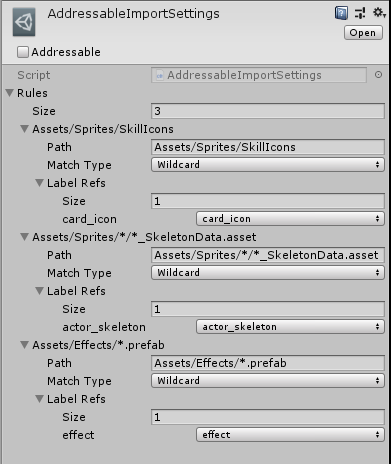
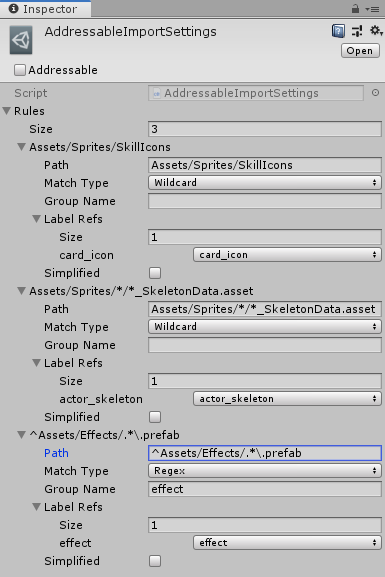
Conforms to upm package.

Changed region(s): [[0.0, 0.0, 1.0, 1.0], [0.374, 0.9655, 0.4364, 0.9957]]

diff --git a/README.md b/README.md
@@ -3,33 +3,26 @@ A simple rule based addressable asset importer.
 
 The importer marks assets as addressable, by applying to files having a path matching the rule pattern.
 
-## Usage
+## Install package
 
-You should create a single AddressableImportSettings file located at `Assets/AddressableAssetsData/AddressableImportSettings.asset`. To create it, go to `Assets/AddressableAssetsData` folder, right click in your project window and choose `Create > Addressable Assets > Import Settings`.
+### Install as a git package
 
-If no settings file exists, an empty one will be created when importing any new asset.
+This is the recommended way to track update. Open Packages/manifest.json with your favorite text editor. Add the following line to the dependencies block.
 
-Once the settings file selected, you can edit rules in the inspector window. Then click `File > Save Project` to apply the changes.
+    {
+        "dependencies": {
+            "com.littlebigfun.addressable-importer": "https://github.com/favoyang/unity-addressable-importer.git"
+        }
+    }
 
-![AddressableImportSettings Insepctor](./Documentation~/AddressableImportSettings-Insepctor.png)
+### Install as an embbed package via submodule
 
-Create a rule
-- Path, the path pattern
-- Match type
-  - Wildcard, `*` matches any number of characters, `?` matches a single character
-  - Regex
-- Group name, leaves blank for the default group
-- Labels, the labels to add
-- Simplified, simplify address to filename without extension
+This way gives you more control if you want to modify the package based on your purpose. Fork the repo, and checkout to your Packages folder as submodule.
 
-Rule Examples
+    git submodule add https://github.com/[YOURNAME]/unity-addressable-importer.git Packages/unity-addressable-importer
+    git add -A
+    git ci -m "Imported unity-addressable-importer as embbed package"
 
-| Type     | Example             |
-|----------|---------------------|
-| Wildcard | Asset/Sprites/Icons |
-| Wildcard | Asset/Sprites/Level??/*.asset |
-| Regex    | ^Assets/Models/.*\\.fbx |
+## How to use
 
-Notices for moved or re-imported assets
-- The importer will not override existing labels.
-- The importer will only override address if it looks like a path (starts with `Assets/`). In another word, if you changed or simplified the address, then reimport or move it, the address remains no change.
+See [usage](./Documentation~/AddressableImporter.md)

diff --git a/Documentation~/AddressableImporter.md b/Documentation~/AddressableImporter.md
@@ -1,0 +1,30 @@
+# Addressable Importer Usage
+
+You should create a single AddressableImportSettings file located at `Assets/AddressableAssetsData/AddressableImportSettings.asset`. To create it, go to `Assets/AddressableAssetsData` folder, right click in your project window and choose `Create > Addressable Assets > Import Settings`.
+
+If no settings file exists, an empty one will be created when importing any new asset.
+
+Once the settings file selected, you can edit rules in the inspector window. Then click `File > Save Project` to apply the changes.
+
+![AddressableImportSettings Inspector](AddressableImportSettings-Insepctor.png)
+
+Create a rule
+- Path, the path pattern
+- Match type
+  - Wildcard, `*` matches any number of characters, `?` matches a single character
+  - Regex
+- Group name, leaves blank for the default group
+- Labels, the labels to add
+- Simplified, simplify address to filename without extension
+
+Rule Examples
+
+| Type     | Example             |
+|----------|---------------------|
+| Wildcard | Asset/Sprites/Icons |
+| Wildcard | Asset/Sprites/Level??/*.asset |
+| Regex    | ^Assets/Models/.*\\.fbx |
+
+Notices for moved or re-imported assets
+- The importer will not override existing labels.
+- The importer will only override address if it looks like a path (starts with `Assets/`). In another word, if you changed or simplified the address, then reimport or move it, the address remains no change.

diff --git a/CHANGELOG.md b/CHANGELOG.md
@@ -1,0 +1,8 @@
+# Changelog
+All notable changes to this package will be documented in this file.
+
+The format is based on [Keep a Changelog](http://keepachangelog.com/en/1.0.0/)
+and this project adheres to [Semantic Versioning](http://semver.org/spec/v2.0.0.html).
+
+## [0.1.0-preview] - 2019-06-30
+ - Initial submission for package distribution
